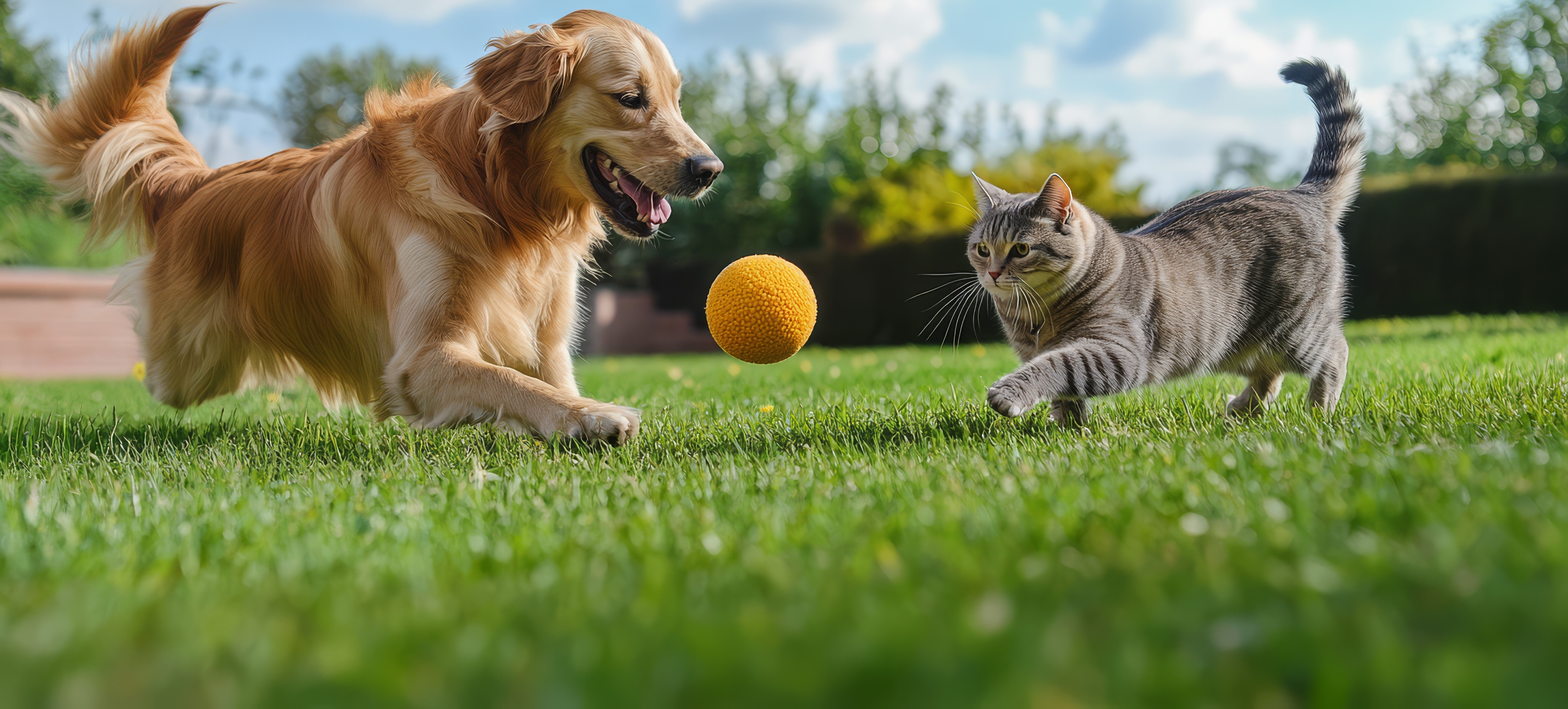
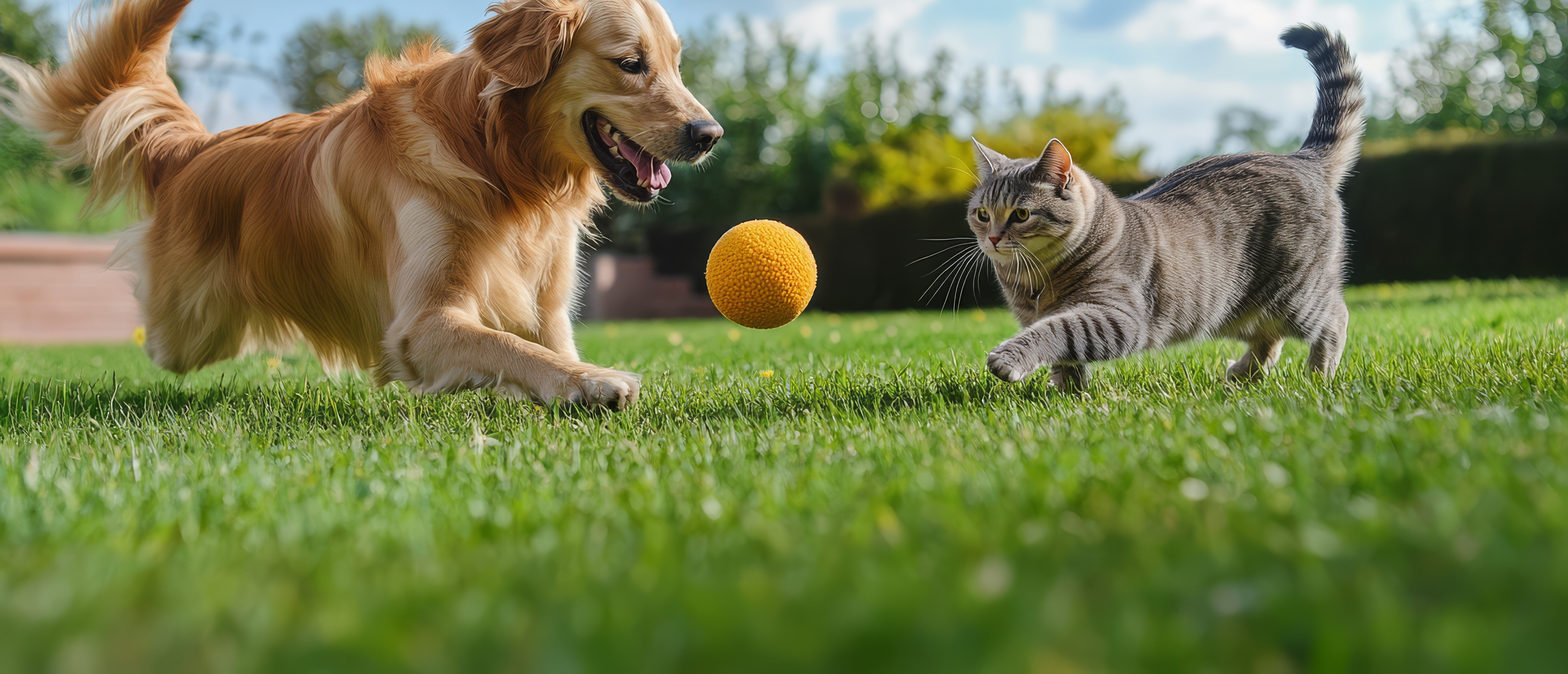
fix - blur e tamanho imagem de fundo index

diff --git a/assets/css/style.css b/assets/css/style.css
@@ -52,37 +52,38 @@ body{
 .menu{
     display: flex;
     width: 100%;
-    height: 550px;
+    height: 450px;
     flex-direction: column;
-    background-image: url(../images/banner2teste.jpg);
-    border-bottom: #603a74 solid 5px;
+    background: url(../images/banner2teste.jpg);
+    filter: blur(2px);
     background-size: cover;
     background-position: top;
-    }
-    .menup{ 
-        position: absolute;
-        width: 278px;
-        height: 100px;
-        left: calc(50% - 278px/2);
-        top: 130px;
-        
-        font-family: 'Playwrite US Modern';
-        font-style: normal;
-        font-weight: 400;
-        font-size: 45px;
-        line-height: 36px;
-        line-height: 40px;
-        display: flex;
-        align-items: center;
-        text-align: center;
-        -webkit-text-stroke: #f0e4cc 0.7px;
-        color: #603A74;
-        
-    }
+}
+.menup{ 
+    position: absolute;
+    width: 278px;
+    height: 100px;
+    left: 50%;
+    transform: translate(-50%);
+    top: 130px;
+    
+    font-family: 'Playwrite US Modern';
+    font-style: normal;
+    font-weight: 400;
+    font-size: 45px;
+    line-height: 36px;
+    line-height: 40px;
+    display: flex;
+    align-items: center;
+    text-align: center;
+    -webkit-text-stroke: #f0e4cc 0.7px;
+    color: #603A74;
+    
+}
 
-    .menu_frase{
-        margin: 26% auto;
-        color: #ffffff;
+.menu_frase{
+    margin: 26% auto;
+    color: #ffffff;
         font-size: 10px;
         font-weight: 900;
     }
@@ -91,6 +92,8 @@ body{
 
 
     .images{
+        margin-top: 0px;
+        border-top: 5px solid #603a74;
         background-image: url(../images/patinhas.png);
         background-size: cover;
         background-repeat: repeat;

diff --git a/assets/pages/index.html b/assets/pages/index.html
@@ -27,14 +27,12 @@
                 <h2><a href="contato.html" class="botoes4">Contato</a></h2>
             </div>
         </header>
-        <div class="menu">
-            <div class="menup"> 
-                    <p>Pacotinho 
-                        de <br> Amor</p>
-            </div>
-
-            <div class="menu_frase"><h1>Ache o seu novo melhor amigo!</h1></div>
+        <div class="menu"></div>
+        <div class="menup"> 
+            <p>Pacotinho 
+                de <br> Amor</p>
         </div>
+
 <!-- corpo -->
 
     <div class="images">
